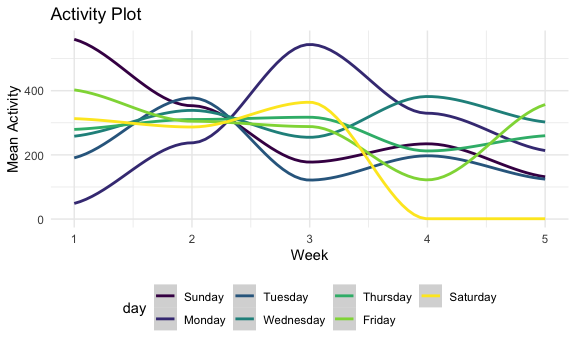
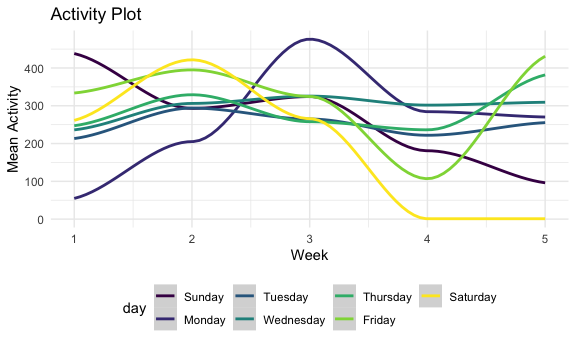
got rid of the warnings on the markdown doc

diff --git a/p8105_hw3_ar4041.md b/p8105_hw3_ar4041.md
@@ -215,10 +215,9 @@ accel_df =
      TRUE ~ ""
   )) %>% 
   group_by(week, day) %>% 
-  ggplot(aes(x = active_num , y = active_val, color = day, alpha = .5)) + 
-  geom_point() + 
+  summarise(active_mean = mean(active_val)) %>% 
+  ggplot(aes(x = week , y = active_mean, color = day)) + 
   geom_smooth() +
-  geom_line(aes(group = day)) +
    labs(
     title = "Activity Plot",
     x = "Week",
@@ -234,7 +233,18 @@ accel_df =
 
     ## See spec(...) for full column specifications.
 
-Based on this graph, it appears that activity
+    ## `summarise()` regrouping output by 'week' (override with `.groups` argument)
+
+``` r
+accel_df
+```
+
+    ## `geom_smooth()` using method = 'loess' and formula 'y ~ x'
+
+<img src="p8105_hw3_ar4041_files/figure-gfm/plots-1.png" width="90%" />
+
+Based on this graph, it appears that weekend activity starts around the
+same level as weekday activity, but decreases significantly by week 3.
 
 ## Problem 3
 
@@ -281,7 +291,6 @@ a lot of missing data in this dataset.
 
 ``` r
 ny_noaa %>% 
-  slice_sample(n = 1000) %>% 
   separate(date, into = c("year", "month", "day"), convert = TRUE) %>% 
    filter(month == 1 | month == 7) %>% 
   mutate(
@@ -308,7 +317,7 @@ ny_noaa %>%
 
     ## `geom_smooth()` using formula 'y ~ x'
 
-<img src="p8105_hw3_ar4041_files/figure-gfm/unnamed-chunk-2-1.png" width="90%" />
+<img src="p8105_hw3_ar4041_files/figure-gfm/temps-1.png" width="90%" />
 
 While there are occasional outlier years, max January temperatures
 appear to be increasing as the years progress. July temperatures appear
@@ -317,7 +326,6 @@ to have remained constant.
 ``` r
 tmax_tmin_p = 
   ny_noaa %>% 
-  slice_sample(n = 1000) %>% 
   separate(date, into = c("year", "month", "day"), convert = TRUE) %>% 
   mutate(
     tmax = as.numeric(tmax)/10,
@@ -335,7 +343,6 @@ tmax_tmin_p =
 
 snowfall_p = 
   ny_noaa %>% 
-  slice_sample(n = 10000) %>% 
   separate(date, into = c("year", "month", "day"), convert = TRUE) %>% 
   drop_na(snow) %>% 
   filter(snow > 0 & snow < 100) %>% 
@@ -352,4 +359,4 @@ tmax_tmin_p + snowfall_p
 
     ## `stat_bin()` using `bins = 30`. Pick better value with `binwidth`.
 
-<img src="p8105_hw3_ar4041_files/figure-gfm/unnamed-chunk-3-1.png" width="90%" />
+<img src="p8105_hw3_ar4041_files/figure-gfm/tmax_min-1.png" width="90%" />
